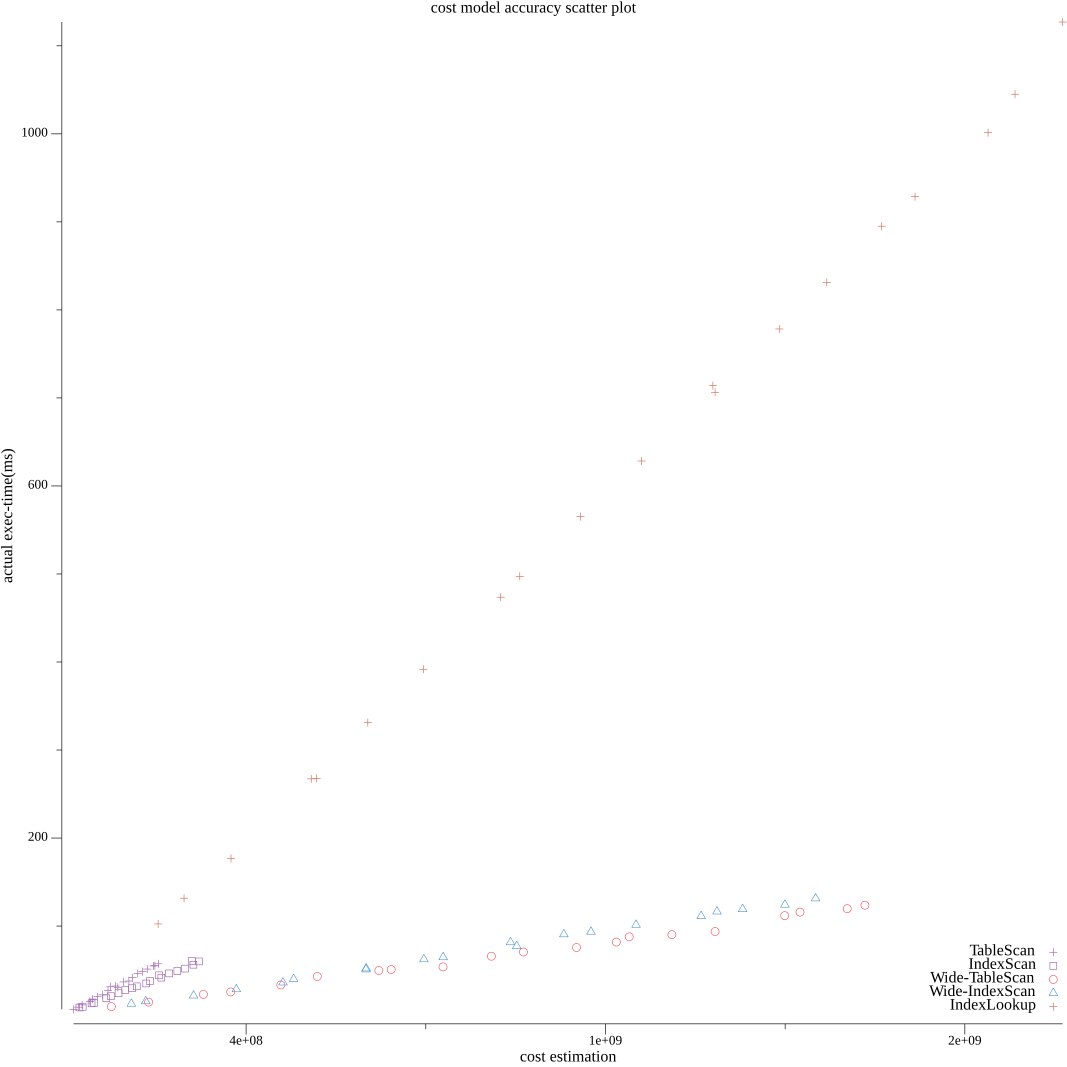
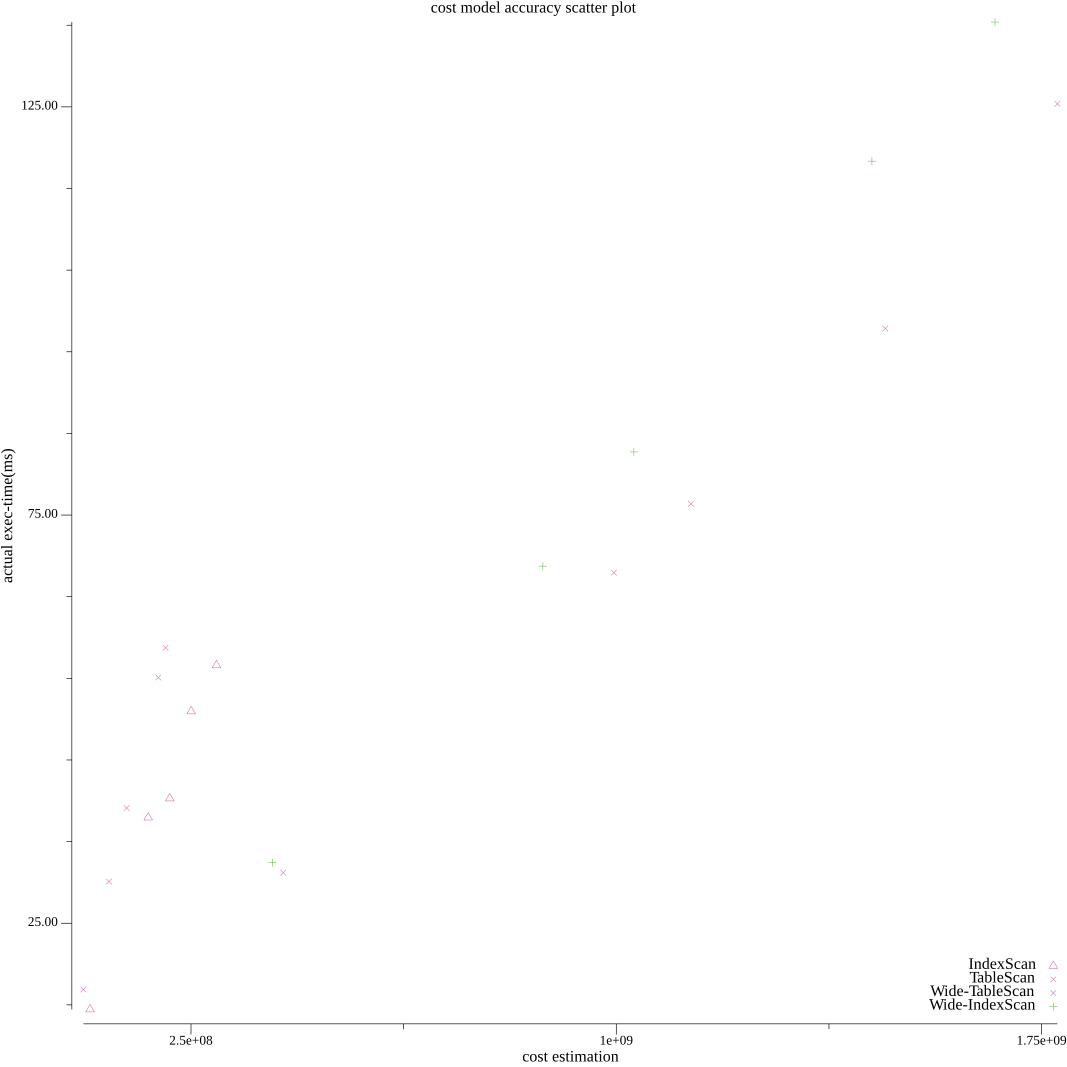
fixup

diff --git a/cost/eval_synthetic.go b/cost/eval_synthetic.go
@@ -37,7 +37,7 @@ func genSyntheticQueries(ins tidb.Instance, db string) Queries {
 	qs = append(qs, genSyntheticQuery(n, repeat, "Wide-TableScan", db, "a, c", "primary", "", "a")...)
 	qs = append(qs, genSyntheticQuery(n, repeat, "IndexScan", db, "b", "b", "", "b")...)
 	qs = append(qs, genSyntheticQuery(n, repeat, "Wide-IndexScan", db, "b, c", "bc", "", "b")...)
-	qs = append(qs, genSyntheticQuery(n, repeat, "IndexLookup", db, "b, d", "b", "", "b")...)
+	//qs = append(qs, genSyntheticQuery(n, repeat, "IndexLookup", db, "b, d", "b", "", "b")...)
 	return qs
 }
 

diff --git a/cost/util.go b/cost/util.go
@@ -145,7 +145,9 @@ var costFactorVars = []string{"tidb_opt_cpu_factor",
 func setCostFactors(ins tidb.Instance, factors CostFactors) {
 	fmt.Println("SET COST FACTORS(CPU, CopCPU, Net, Scan, DescScan, Mem, Seek):", factors)
 	for i := 0; i < NumFactors; i++ {
-		ins.MustExec(fmt.Sprintf("set @@%v=%v", costFactorVars[i], factors[i]))
+		sql := fmt.Sprintf("set @@%v=%v;", costFactorVars[i], factors[i])
+		fmt.Println(sql)
+		ins.MustExec(sql)
 	}
 }
 
